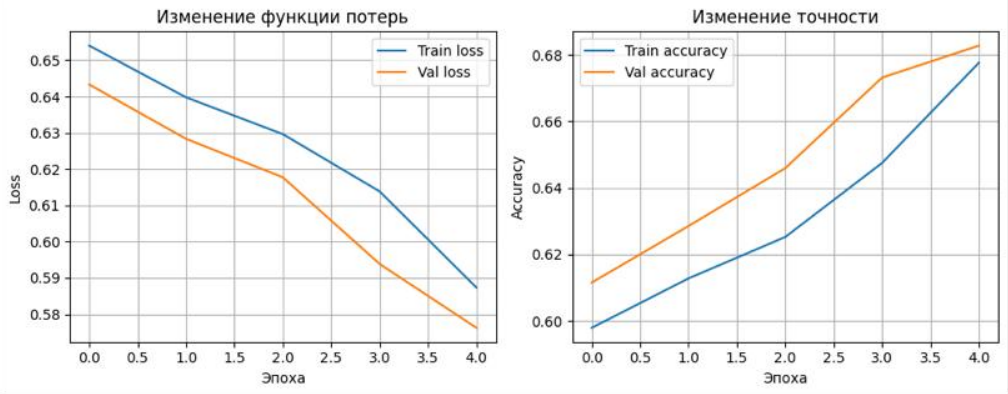
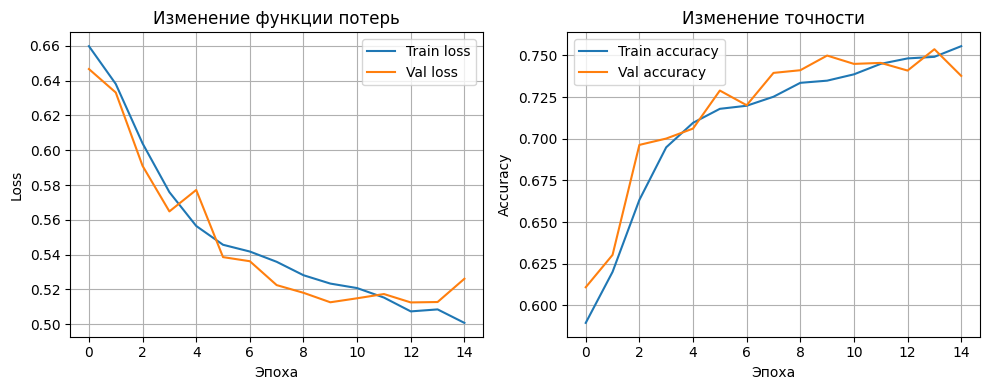
Fix report

Changed region(s): [[0.0, 0.0308, 1.0, 0.9846], [0.91, 0.5538, 0.9403, 0.5846]]

diff --git a/lab3/README.md b/lab3/README.md
@@ -105,20 +105,28 @@ self.backbone.fc = nn.Sequential(
 
 Результаты работы :
 
-| Реализация        | Loss     | Accuracy |
-|-------------------|----------|----------|
-| CustomResNet50    | 0.0004   |          |
-| SimpleCNN         | 0.79     | 0.57     |
+| Реализация        | Loss | Accuracy |
+|-------------------|------|----------|
+| CustomResNet50    | 0.17 | 0.96     |
+| SimpleCNN         | 0.74 | 0.53     |
+
+Графики обучения:
+
+- CustomResNet50:
+
+![graph_vis_cutomresnet50](data/output/graph_vis_cutomresnet50.png)
+
+- SimpleCNN:
+
+![graph_vis_simplecnn](data/output/graph_vis_simplecnn.png)
 
 ---
 
 ## 4. Выводы по работе
 
-* Алгоритм Собеля прост для реализации; ключевое влияние на производительность оказывают:
-  * использование оптимизированных библиотек (OpenCV),
-  * степень векторизации и использование ограниченных циклов в NumPy,
-  * размер изображения (чем больше - тем сильнее выигрыш у C/C++ реализаций).
-* Для практических задач обработки изображений рекомендовано использовать OpenCV, если важна скорость. Для учебных целей - реализовать нативно, чтобы увидеть механику свёртки.
+* Дообучение ResNet50 является хорошей практикой для построения Baseline.
+* После получения результатов от Baseline, можно принимать решение нужно ли дальше усложнять модель или нет.
+* Построение графиков ошибки и метрик качества при обучении позволяет отслеживать - переобучилась ли модель.
 
 ---
 
@@ -154,4 +162,5 @@ make lab3
 
 
 * В output будет выведен процесс обучения и метрики качества.
-* `graph_vis_simplecnn.png` - графики ошибок и метрики при обучении.
+* `graph_vis_simplecnn.png` - графики ошибок и метрики при обучении для SimpleCNN.
+* `graph_vis_customresnet50.png` - графики ошибок и метрики при обучении для CustomResNet50.
